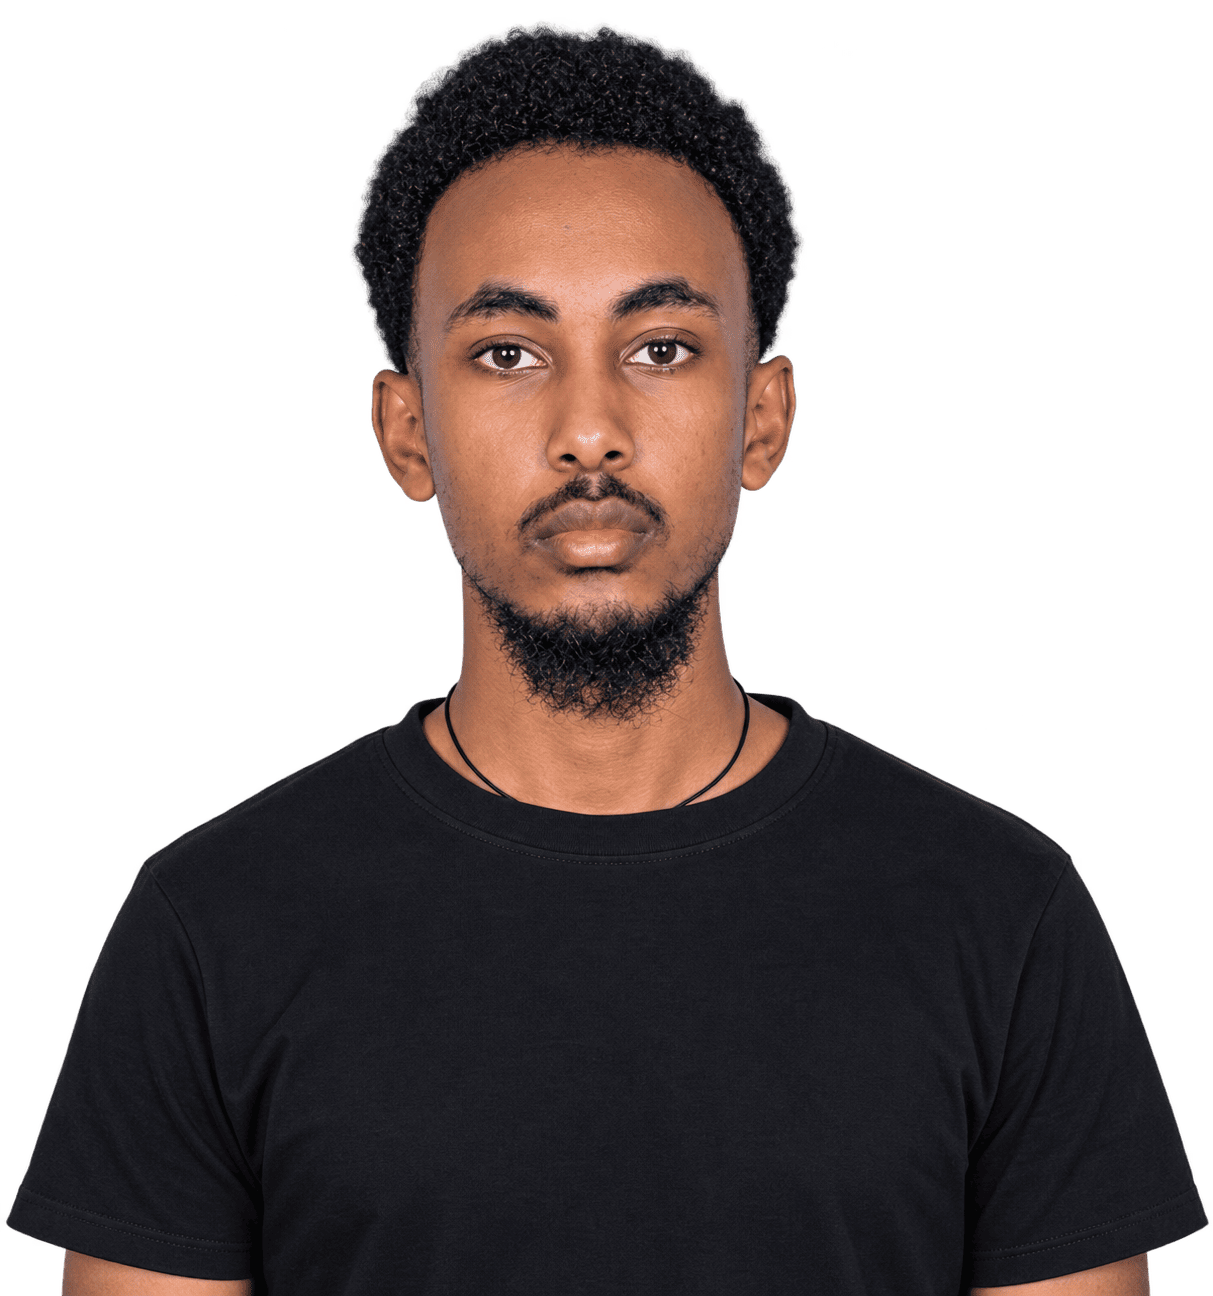
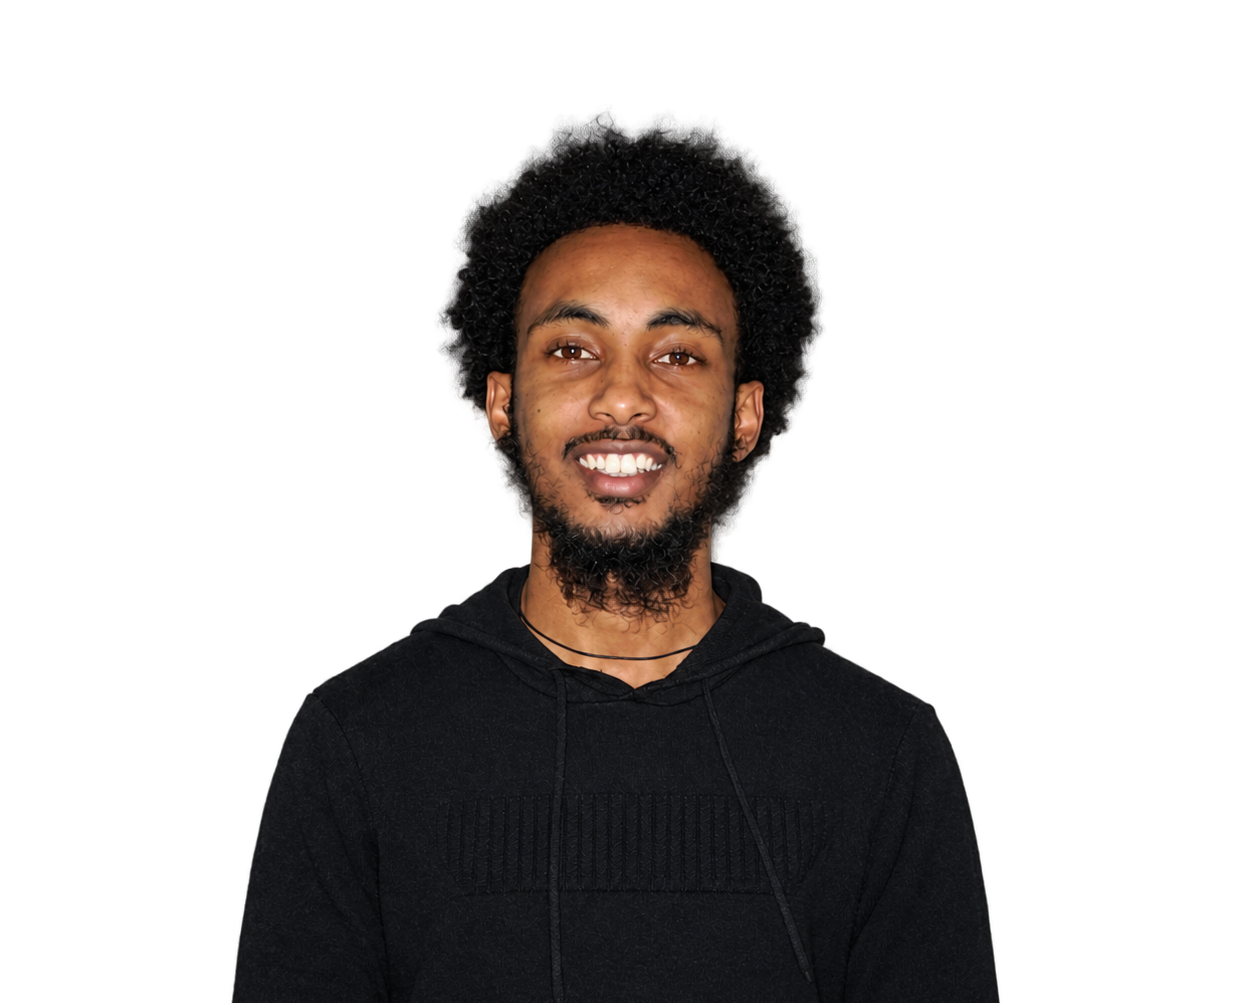
Update landing profile image

diff --git a/src/components/Landing.css b/src/components/Landing.css
@@ -20,8 +20,8 @@
   display: flex;
   align-items: center;
   justify-content: center;
-  gap: clamp(60px, 10vw, 200px);
-  padding: 100px clamp(40px, 8vw, 100px) 0px clamp(40px, 8vw, 100px);
+  gap: clamp(36px, 5vw, 80px);
+  padding: 100px clamp(32px, 5vw, 80px) 0px clamp(32px, 5vw, 80px);
   max-width: 1400px;
   margin: 0 auto;
   width: 100%;
@@ -141,13 +141,17 @@
 /* ── Right column: image ── */
 .hero-image {
   flex-shrink: 0;
-  width: 380px;
-  height: 460px;
+  width: clamp(420px, 32vw, 540px);
+  height: auto;
+  display: flex;
+  align-items: center;
+  justify-content: center;
 }
 
 .hero-image img {
   width: 100%;
-  height: 100%;
+  height: auto;
+  max-height: 520px;
   object-fit: contain;
   display: block;
 }
@@ -196,25 +200,26 @@
 /* ── Responsive ── */
 @media (max-width: 1100px) {
   .hero {
-    gap: 40px;
-    padding: 100px 40px 0px 40px;
+    gap: 36px;
+    padding: 100px 32px 0px 32px;
   }
 
   .hero-content {
-    width: 55%;
+    flex: 1;
+    min-width: 0;
   }
 
   .hero-image {
-    width: 320px;
-    height: 400px;
+    width: clamp(360px, 38vw, 440px);
+    height: auto;
   }
 }
 
 @media (max-width: 850px) {
   .hero {
     flex-direction: column;
-    padding: 150px 24px 60px 24px;
-    gap: 50px;
+    padding: 140px 24px 60px 24px;
+    gap: 40px;
     text-align: center;
   }
 
@@ -222,8 +227,6 @@
     width: 100%;
     align-items: center;
   }
-
-
 
   .hero-description {
     text-align: center;
@@ -236,17 +239,16 @@
 
   .hero-image {
     width: 100%;
-    max-width: 400px;
-    height: 450px;
+    max-width: min(88vw, 460px);
+    height: auto;
   }
 }
 
 @media (max-width: 480px) {
   .hero {
-    padding: 130px 16px 40px 16px;
+    padding: 120px 16px 40px 16px;
+    gap: 32px;
   }
-
-
 
   .hero-actions {
     flex-direction: column;
@@ -264,6 +266,8 @@
   }
 
   .hero-image {
-    height: 350px;
+    width: 100%;
+    max-width: min(92vw, 380px);
+    height: auto;
   }
 }
